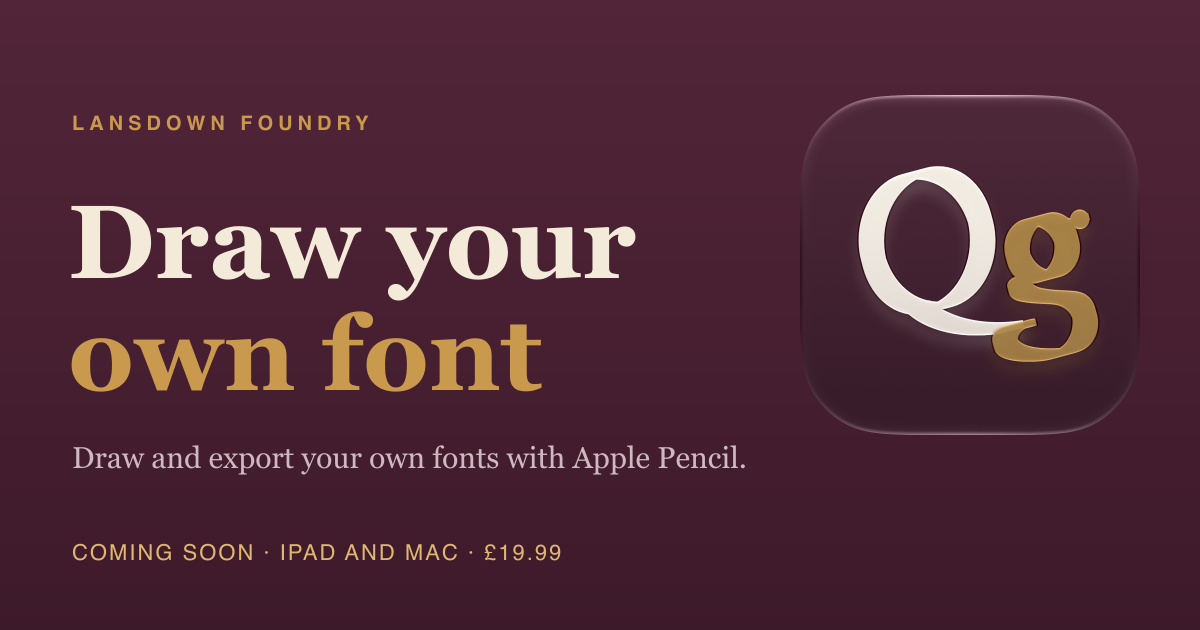
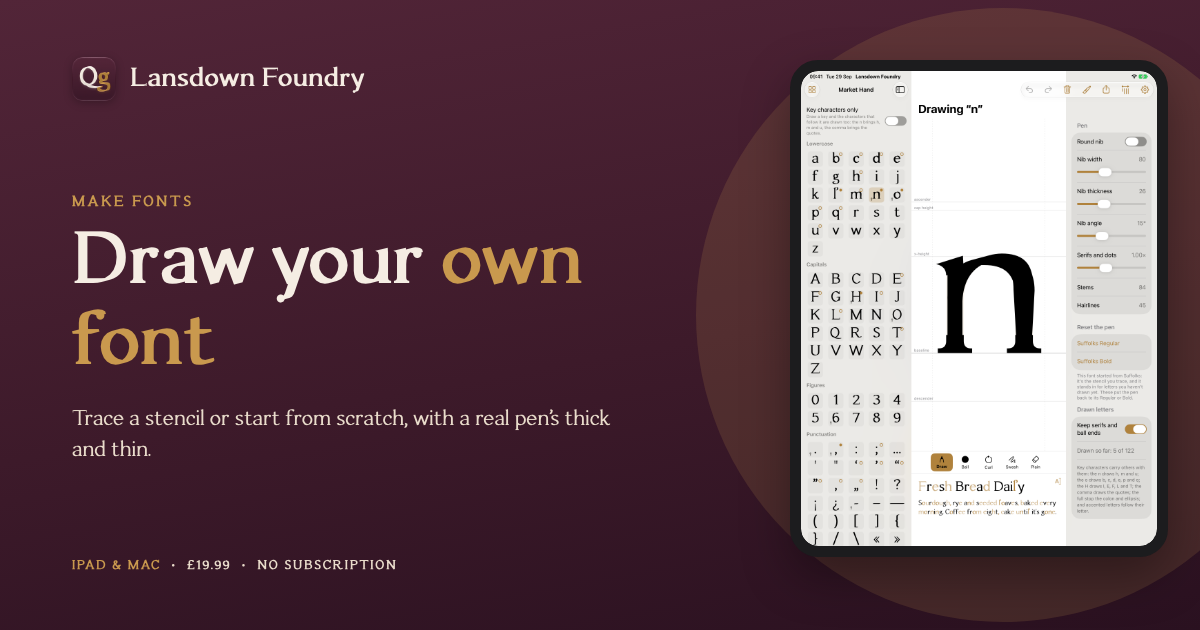
fix: New share image
The link preview (og:image) is now the app's 1200 x 630 card from app-store-art's social-card.

diff --git a/index.html b/index.html
@@ -23,14 +23,14 @@
     <meta property="og:image:width" content="1200">
     <meta property="og:image:height" content="630">
     <meta property="og:image:alt"
-      content="Lansdown Foundry: draw and export your own fonts, shown with the app icon on a deep plum background">
+      content="Lansdown Foundry: draw your own font, shown on an iPad on a deep plum background">
     <meta name="twitter:card" content="summary_large_image">
     <meta name="twitter:title" content="Lansdown Foundry: Draw and export your own fonts">
     <meta name="twitter:description"
       content="Draw your own font with Apple Pencil and use it everywhere. For iPad and Mac.">
     <meta name="twitter:image" content="https://lansdownfoundry.thechels.uk/images/og-image.png">
     <meta name="twitter:image:alt"
-      content="Lansdown Foundry: draw and export your own fonts, shown with the app icon on a deep plum background">
+      content="Lansdown Foundry: draw your own font, shown on an iPad on a deep plum background">
     <title>Lansdown Foundry: Draw and export your own fonts</title>
     <link rel="icon" href="/favicon.ico" sizes="16x16 32x32 48x48">
     <link rel="icon" href="images/lansdown-foundry-icon.png" type="image/png">
